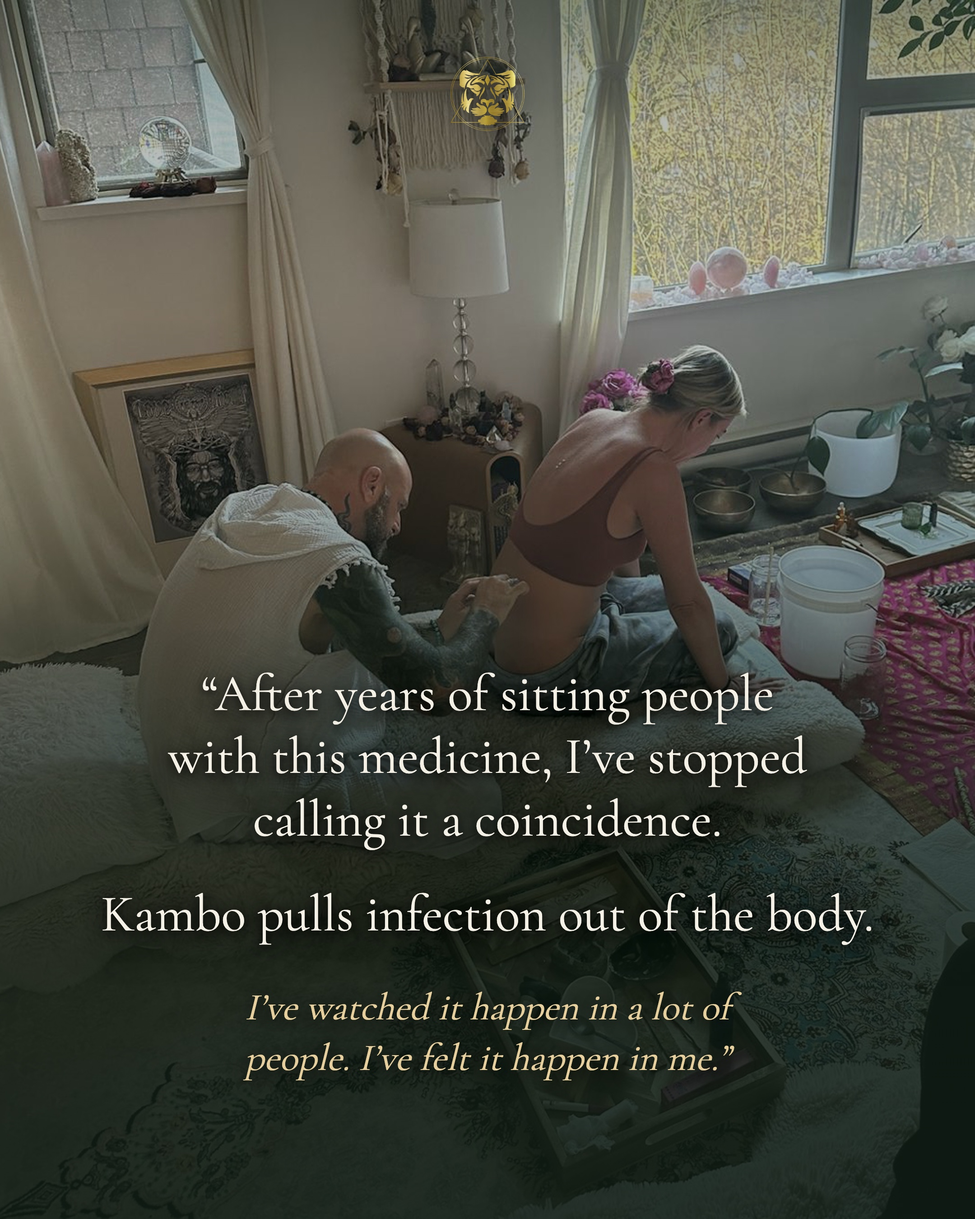
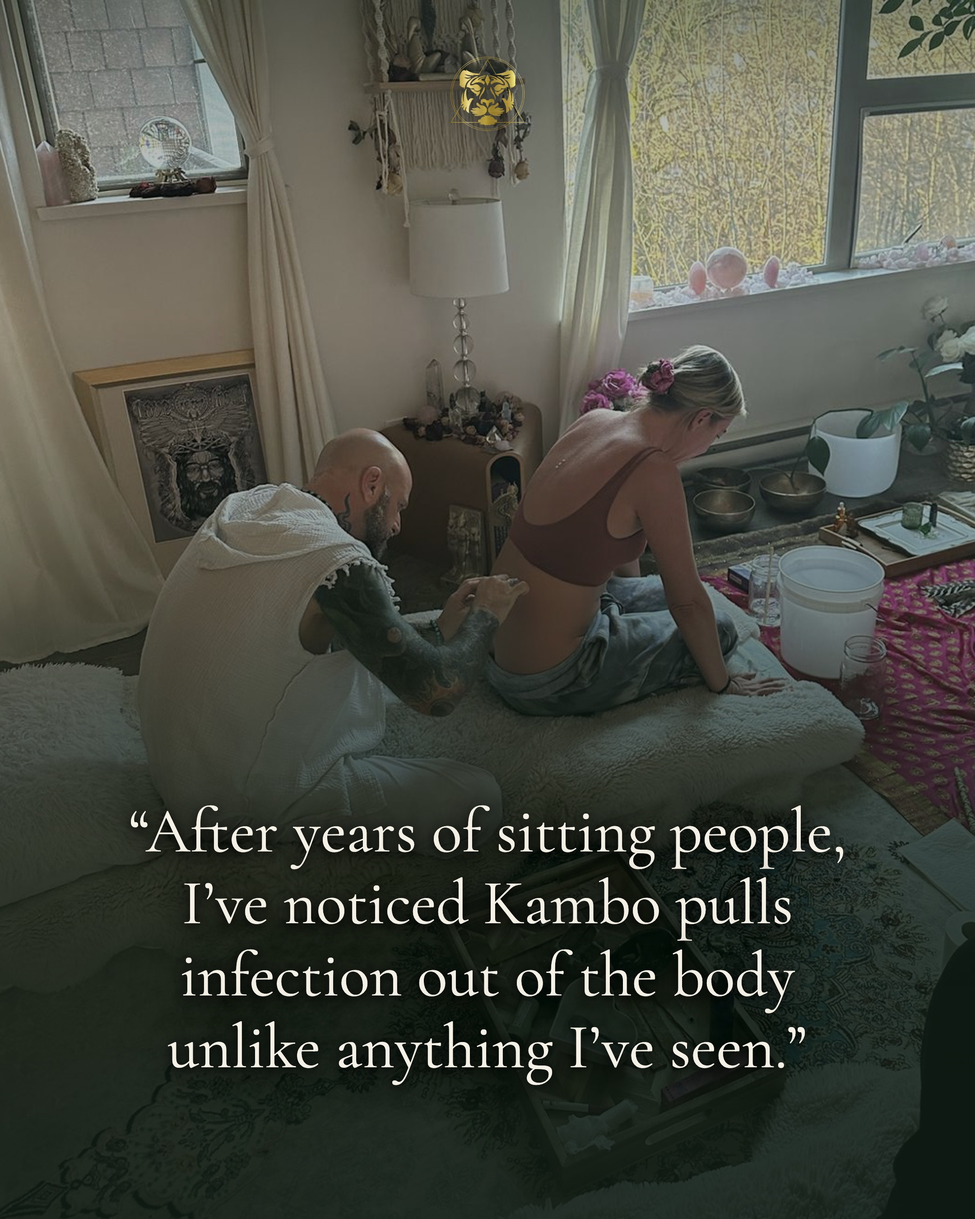
Calendar: tighten the Aug 24 closing slide
Slide 7 down to one line; caption closer updated to match.

Changed region(s): [[0.0931, 0.56, 0.8995, 0.9022]]

diff --git a/index.html b/index.html
@@ -468,7 +468,7 @@ const POSTS = [
       "Post the 7 slides in order (Slide 1 \u2192 7)",
       "Post from Blaine\u2019s voice, first person"
     ],
-    caption:"Kambo helped me clear a cyst I’d had for years.\n\nWhen I was battling addiction I spent a long time not taking care of my body, and I ended up with a cyst on my neck. I watched it grow. I was always squeezing it, trying to get it to release, and it never would.\n\nYears later I wanted to detox, so I sat for three sessions of Kambo. After the third one I was laying in bed, put my hand to my neck, and felt something oozing down it. The cyst had burst on its own.\n\nAfter years of sitting people with this medicine, I’ve stopped calling it a coincidence. Kambo pulls infection out of the body. I’ve watched it happen in a lot of people. I’ve felt it happen in me.\n\nThis is my experience, not a promise of what it will do for you. Kambo is a serious medicine and should only be taken with a trained practitioner.",
+    caption:"Kambo helped me clear a cyst I’d had for years.\n\nWhen I was battling addiction I spent a long time not taking care of my body, and I ended up with a cyst on my neck. I watched it grow. I was always squeezing it, trying to get it to release, and it never would.\n\nYears later I wanted to detox, so I sat for three sessions of Kambo. After the third one I was laying in bed, put my hand to my neck, and felt something oozing down it. The cyst had burst on its own.\n\nAfter years of sitting people, I’ve noticed Kambo pulls infection out of the body unlike anything I’ve seen. I’ve watched it happen in a lot of people. I’ve felt it happen in me.\n\nThis is my experience, not a promise of what it will do for you. Kambo is a serious medicine and should only be taken with a trained practitioner.",
     notes:"Blaine’s story about the cyst on his neck, told first person across seven slides. Slides are built and ready to post.\n\n# The flow\n1. Hook: Kambo helped me clear a cyst I had for years.\n2. Where it came from: years of not taking care of his body during addiction.\n3. What it was like: watching it grow, constantly squeezing it, it never released.\n4. The turn: wanting to detox, three sessions of Kambo.\n5. The moment: laying in bed after the third session, the cyst burst on its own.\n6. Reflection: your body remembers what you put it through.\n7. Close: the practitioner line, said with conviction but still anchored in what he has seen.\n\n**Heads up:** every claim stays inside his own experience. Nothing here promises Kambo treats or removes cysts for anyone else, and the caption says so directly.",
     assets:[
       {src:"assets/carousel-kambo-cyst/01.jpg", thumb:"assets/carousel-kambo-cyst/thumb/01.jpg", cap:"Slide 1: Hook \u2014 Kambo helped me clear a cyst I\u2019d had for years"},
@@ -477,7 +477,7 @@ const POSTS = [
       {src:"assets/carousel-kambo-cyst/04.jpg", thumb:"assets/carousel-kambo-cyst/thumb/04.jpg", cap:"Slide 4: Three sessions of Kambo (shoulder points)"},
       {src:"assets/carousel-kambo-cyst/05.jpg", thumb:"assets/carousel-kambo-cyst/thumb/05.jpg", cap:"Slide 5: The cyst burst (chest points)"},
       {src:"assets/carousel-kambo-cyst/06.jpg", thumb:"assets/carousel-kambo-cyst/thumb/06.jpg", cap:"Slide 6: Your body remembers what you put it through (ankle points)"},
-      {src:"assets/carousel-kambo-cyst/07.jpg", thumb:"assets/carousel-kambo-cyst/thumb/07.jpg", cap:"Slide 7: Close \u2014 Kambo pulls infection out of the body"}
+      {src:"assets/carousel-kambo-cyst/07.jpg", thumb:"assets/carousel-kambo-cyst/thumb/07.jpg", cap:"Slide 7: Close \u2014 Kambo pulls infection out unlike anything I\u2019ve seen"}
     ] },
 
   { date:"2026-08-26", pillar:"teaching", title:"Kambo & My Cat Allergies", notesFirst:true,
